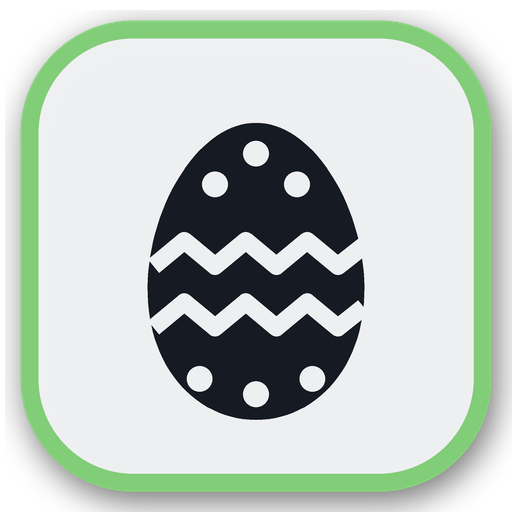
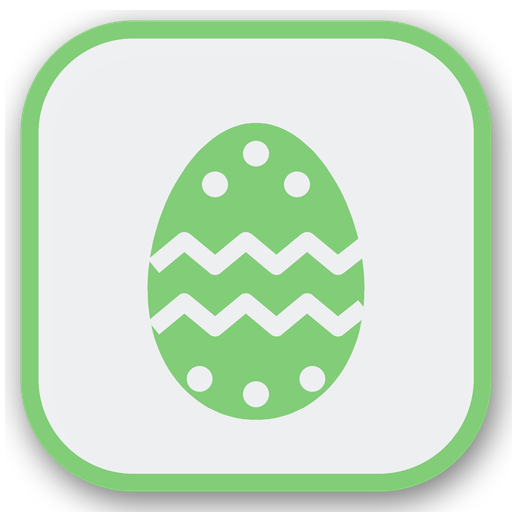
docs: light variant badges draw the glyph in the border colour
Claude-Session: https://claude.ai/code/session_01TPtXe8YEjXWuXNmFgmXabW

Changed region(s): [[0.2812, 0.2188, 0.7188, 0.8438]]

diff --git a/tools/variant_badges.py b/tools/variant_badges.py
@@ -18,9 +18,8 @@ from PIL import Image, ImageDraw, ImageFilter
 SS = 4                      # supersampling for smooth edges
 BG = (14, 19, 27, 215)      # badge background
 WHITE = (240, 244, 248, 255)
-# light theme: the inverse look, very light grey background with near-black glyphs; borders stay the same
+# light theme: very light grey background, the glyph in the badge's own border colour
 BG_LIGHT = (242, 243, 245, 250)
-INK_LIGHT = (22, 26, 34)
 VARIANTS = {
     #  name     accent colour       glyph
     'day':    ((242, 182, 50),  'sun'),
@@ -208,10 +207,10 @@ def badge(name, size=512, light=False):
     d.rounded_rectangle([pad+bw, pad+bw, S-pad-bw, S-pad-bw], radius=rad-bw, fill=BG_LIGHT if light else BG)
     g = Image.new('RGBA', (S, S), (0, 0, 0, 0)); GLYPHS[glyph](ImageDraw.Draw(g), S)
     if light:
-        # turn the white parts of the glyph dark; coloured accents (gold star, red lantern ...) keep their colour
+        # paint the white parts of the glyph in the border colour; coloured accents (gold star, red lantern ...) keep theirs
         r, gg, b, a = g.split()
         white = Image.eval(Image.merge('RGB', (r, gg, b)).convert('L'), lambda v: 255 if v > 225 else 0)
-        ink = Image.new('RGBA', (S, S), INK_LIGHT + (255,)); ink.putalpha(Image.composite(a, Image.new('L', (S, S), 0), white))
+        ink = Image.new('RGBA', (S, S), accent + (255,)); ink.putalpha(Image.composite(a, Image.new('L', (S, S), 0), white))
         g = Image.composite(ink, g, white)
     im.alpha_composite(g)
     im = im.resize((size, size), Image.LANCZOS)

diff --git a/docs/variant-badges.md b/docs/variant-badges.md
@@ -26,7 +26,7 @@ Small icons in the top-right corner of a Workshop cover image. They show at a gl
 
 ## Usage
 
-The badge images (512 px, transparent) are in [`images/badges/`](./images/badges/), for use in an image editor. Every badge also has a **light** version (`badge_<key>_light_512.png`): a very light grey background with a near-black glyph and the same border colour, for bright covers. To stamp them onto a cover image:
+The badge images (512 px, transparent) are in [`images/badges/`](./images/badges/), for use in an image editor. Every badge also has a **light** version (`badge_<key>_light_512.png`): a very light grey background, with the glyph drawn in the badge's border colour, for bright covers. To stamp them onto a cover image:
 
 ```
 python3 tools/variant_badges.py stamp cover.png cover_badges.png day,night_rain
